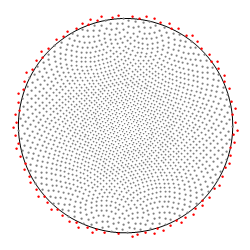
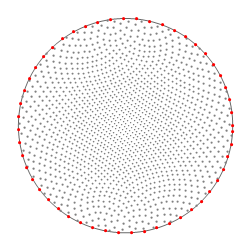
Removed the option for adding sampling points below the equator (kept there because of historical reasons, probably). Currently, distributions are calculated also at points at the equator, always. This does not slow down the code, but simplifies UI. Updated related part of the documentation.

Changed region(s): [[0.028, 0.056, 0.952, 0.952]]

diff --git a/Source/Plugins/SurfaceMeshing/SurfaceMeshingFilters/FindGBCD_MetricBased.cpp b/Source/Plugins/SurfaceMeshing/SurfaceMeshingFilters/FindGBCD_MetricBased.cpp
@@ -409,7 +409,6 @@ FindGBCD_MetricBased::FindGBCD_MetricBased() :
   m_PhaseOfInterest(1),
   m_ChosenLimitDists(DEFAULT_RESOL_CHOICE),
   m_NumSamplPts(3000),
-  m_AddMorePtsNearEquator(true),
   m_DistOutputFile(""),
   m_ErrOutputFile(""),
   m_SaveRelativeErr(false),
@@ -430,10 +429,10 @@ FindGBCD_MetricBased::FindGBCD_MetricBased() :
   m_SurfaceMeshFeatureFaceLabels(NULL),
   m_SurfaceMeshFaceAreas(NULL)
 {
-	m_MisorientationRotation.angle = 38.94f;
+	m_MisorientationRotation.angle = 17.9f;
 	m_MisorientationRotation.h = 1.0f;
 	m_MisorientationRotation.k = 1.0f;
-	m_MisorientationRotation.l = 0.0f;
+	m_MisorientationRotation.l = 1.0f;
 
 	setupFilterParameters();
 }
@@ -479,7 +478,6 @@ void FindGBCD_MetricBased::setupFilterParameters()
 
 	}
 	parameters.push_back(IntFilterParameter::New("Number of Sampling Points (on a Hemisphere)", "NumSamplPts", getNumSamplPts(), FilterParameter::Parameter));
-	parameters.push_back(BooleanFilterParameter::New("Include Points from the Southern Hemisphere from the Equator's Vicinity", "AddMorePtsNearEquator", getAddMorePtsNearEquator(), FilterParameter::Parameter));
 	parameters.push_back(OutputFileFilterParameter::New("Save Distribution to", "DistOutputFile", getDistOutputFile(), FilterParameter::Parameter, ""));
 	parameters.push_back(OutputFileFilterParameter::New("Save Distribution Errors to", "ErrOutputFile", getErrOutputFile(), FilterParameter::Parameter, ""));
 	parameters.push_back(BooleanFilterParameter::New("Save Relative Errors Instead of Their Absolute Values", "SaveRelativeErr", getSaveRelativeErr(), FilterParameter::Parameter));
@@ -535,7 +533,6 @@ void FindGBCD_MetricBased::readFilterParameters(AbstractFilterParametersReader* 
 	setMisorientationRotation(reader->readAxisAngle("MisorientationRotation", getMisorientationRotation(), -1));
 	setChosenLimitDists(reader->readValue("ChosenLimitDists", getChosenLimitDists()));
 	setNumSamplPts(reader->readValue("NumSamplPts", getNumSamplPts()));
-	setAddMorePtsNearEquator(reader->readValue("AddMorePtsNearEquator", getAddMorePtsNearEquator()));
 	setDistOutputFile(reader->readString("DistOutputFile", getDistOutputFile()));
 	setErrOutputFile(reader->readString("ErrOutputFile", getErrOutputFile()));
 	setSaveRelativeErr(reader->readValue("SaveRelativeErr", getSaveRelativeErr()));
@@ -560,7 +557,6 @@ int FindGBCD_MetricBased::writeFilterParameters(AbstractFilterParametersWriter* 
 	SIMPL_FILTER_WRITE_PARAMETER(MisorientationRotation)
 	SIMPL_FILTER_WRITE_PARAMETER(ChosenLimitDists)
 	SIMPL_FILTER_WRITE_PARAMETER(NumSamplPts)
-	SIMPL_FILTER_WRITE_PARAMETER(AddMorePtsNearEquator)
 	SIMPL_FILTER_WRITE_PARAMETER(DistOutputFile)
 	SIMPL_FILTER_WRITE_PARAMETER(ErrOutputFile)
 	SIMPL_FILTER_WRITE_PARAMETER(SaveRelativeErr)
@@ -892,10 +888,6 @@ void FindGBCD_MetricBased::execute()
 	// generate "Golden Section Spiral", see http://www.softimageblog.com/archives/115
 
 	int numSamplPts_WholeSph = 2 * m_NumSamplPts; // here we generate points on the whole sphere
-	QVector<float> samplPtsX_WholeSph(0);
-	QVector<float> samplPtsY_WholeSph(0);
-	QVector<float> samplPtsZ_WholeSph(0);
-
 	QVector<float> samplPtsX(0);
 	QVector<float> samplPtsY(0);
 	QVector<float> samplPtsZ(0);
@@ -911,29 +903,23 @@ void FindGBCD_MetricBased::execute()
 		float _r = sqrtf(fmaxf(1.0f - _y*_y, 0.0f));
 		float _phi = float(ptIdx_WholeSph) * _inc;
 
-		samplPtsX_WholeSph.push_back(cosf(_phi) * _r);
-		samplPtsY_WholeSph.push_back(_y);
-		samplPtsZ_WholeSph.push_back(sinf(_phi) * _r);
+    float z = sinf(_phi) * _r;
+
+    if (z > 0.0f)
+    {
+      samplPtsX.push_back(cosf(_phi) * _r);
+      samplPtsY.push_back(_y);
+      samplPtsZ.push_back(z);
+    }
 	}
 
-	// now, select the points from the upper hemisphere,
-	// and - if needed - from lower hemisphere from the neighborhood of equator
-
-	float howFarBelowEquator = 0.0f;
-  if (getAddMorePtsNearEquator() == true) howFarBelowEquator = -3.0001f / sqrtf(float(numSamplPts_WholeSph));
-
-	for (int ptIdx_WholeSph = 0; ptIdx_WholeSph < numSamplPts_WholeSph; ptIdx_WholeSph++)
-	{
-		if (getCancel() == true) { return; }
-
-		if (samplPtsZ_WholeSph[ptIdx_WholeSph] > howFarBelowEquator)
-		{
-			samplPtsX.push_back(samplPtsX_WholeSph[ptIdx_WholeSph]);
-			samplPtsY.push_back(samplPtsY_WholeSph[ptIdx_WholeSph]);
-			samplPtsZ.push_back(samplPtsZ_WholeSph[ptIdx_WholeSph]);
-		}
-	}
-
+  // Add points at the equator for better performance of some plotting tools
+  for (double phi = 0.0; phi <= SIMPLib::Constants::k_2Pi; phi += m_planeResol)
+  {
+    samplPtsX.push_back(cosf(phi));
+    samplPtsY.push_back(sinf(phi));
+    samplPtsZ.push_back(0.0f);
+  }
 
 	// convert axis angle to matrix representation of misorientation
 	float gFixed[3][3] = { { 0.0f, 0.0f, 0.0f }, { 0.0f, 0.0f, 0.0f }, { 0.0f, 0.0f, 0.0f } };

diff --git a/Source/Plugins/SurfaceMeshing/SurfaceMeshingFilters/FindGBCD_MetricBased.h b/Source/Plugins/SurfaceMeshing/SurfaceMeshingFilters/FindGBCD_MetricBased.h
@@ -82,9 +82,6 @@ public:
   SIMPL_FILTER_PARAMETER(int, NumSamplPts)
   Q_PROPERTY(int NumSamplPts READ getNumSamplPts WRITE setNumSamplPts)
 
-  SIMPL_FILTER_PARAMETER(bool, AddMorePtsNearEquator)
-  Q_PROPERTY(bool AddMorePtsNearEquator READ getAddMorePtsNearEquator WRITE setAddMorePtsNearEquator)
-
   SIMPL_FILTER_PARAMETER(QString, DistOutputFile)
   Q_PROPERTY(QString DistOutputFile READ getDistOutputFile WRITE setDistOutputFile)
 

diff --git a/Source/Plugins/SurfaceMeshing/Documentation/SurfaceMeshingFilters/FindGBCD_MetricBased.md b/Source/Plugins/SurfaceMeshing/Documentation/SurfaceMeshingFilters/FindGBCD_MetricBased.md
@@ -55,7 +55,7 @@ The latter are computed in a way that if the relative error exceeds 100%, it is 
 
 
 
-![Fig. 2: End-points (drawn in stereographic projection) of sampling directions used for probing distribution values; the number of points here is 2000. Points below equator are marked with red color.](FindGBCD_MetricBased_samplpts.png)
+![Fig. 2: End-points (drawn in stereographic projection) of sampling directions used for probing distribution values; the number of points here is about 1500. Additionally, distributions are probed at points lying at the equator (marked with red); this is helpful for some plotting software.](FindGBCD_MetricBased_samplpts.png)
 
 
 
@@ -73,8 +73,7 @@ The latter are computed in a way that if the relative error exceeds 100%, it is 
 | Phase of Interest | int32_t | Index of the **Ensemble** for which to compute the distribution |
 | Fixed Misorientation | float (4x) | Axis-angle representation of the misorientation of interest |
 | Limiting Distances (&rho;<sub>m</sub> and &rho;<sub>p</sub>) | Enumeration | Control parameters reflecting experimental resolutions |
-| Number of Sampling Points | int32_t | The number of normal directions for which the distribution is probed (Fig. 2) |
-| Include Some Points Below Equator | bool | These additional points may be critical for some plotting software to interpolate the function properly |
+| (Approximate) Number of Sampling Points | int32_t | The number of normal directions for which the distribution is probed (Fig. 2) |
 | Output File for Distribution | File Path | The output .dat file path (GMT format) |
 | Output File for Distribution Errors  | File Path | The output .dat file path (GMT format) |
 | Save Relative Errors | bool | If selected relative errors are computed instead of their absoulte values |
